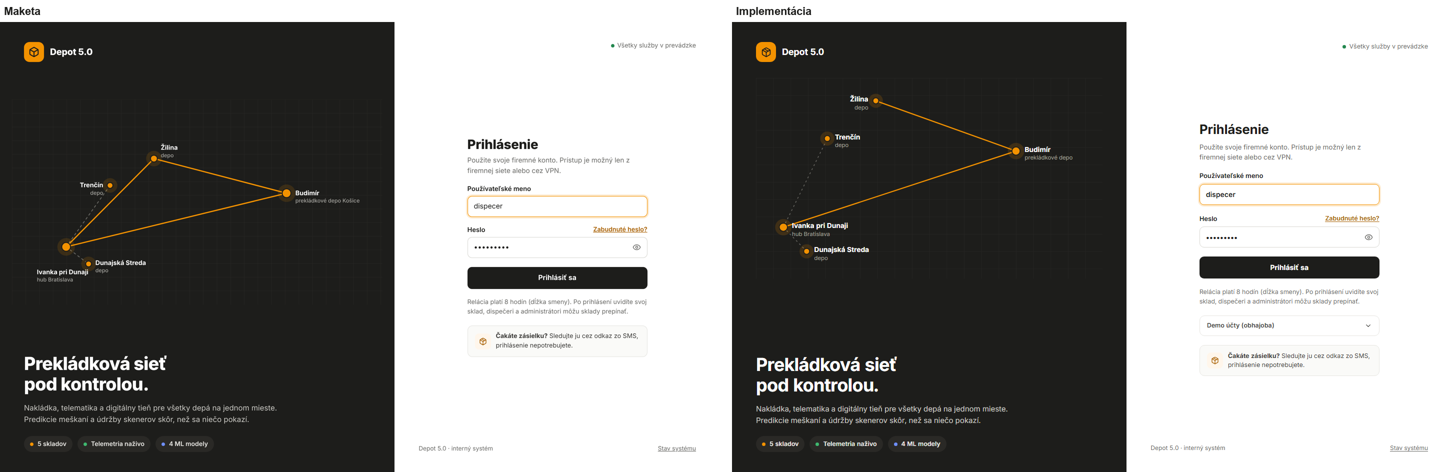
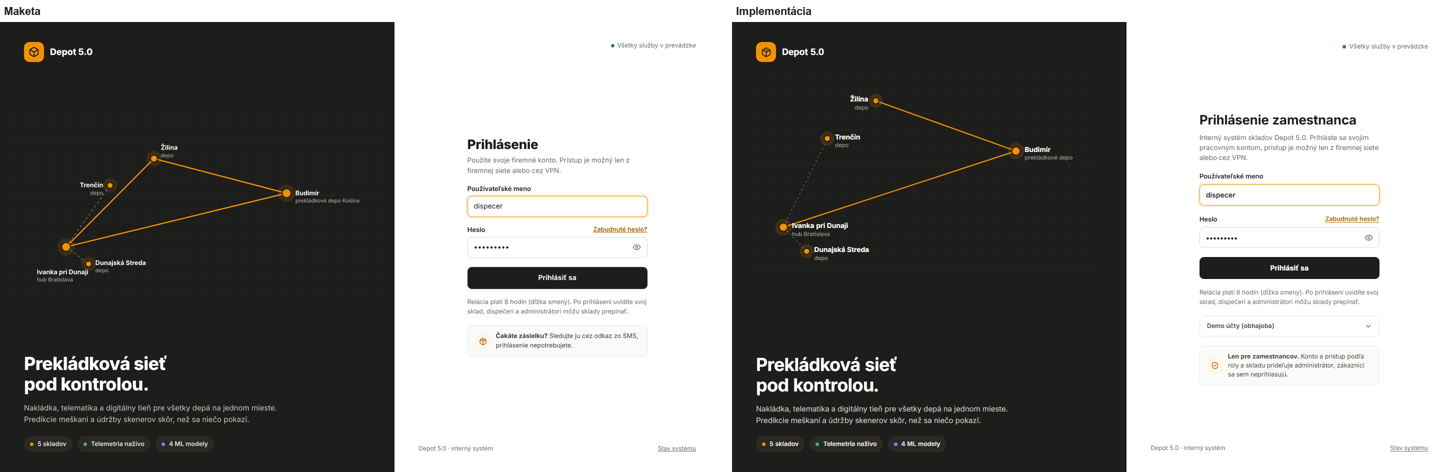
feat: phase 7d - UI/UX v2 finished: review fixes, proposal metric, platform, employees-only login
- telematics: tickets carry the user's depot, sorting line routes check role and depot (403 for another depot), unread scanner passes are not sent to the app, unread counted per parcel, tunnel misses go to decoding after 2 rounds, lines retried after 5 s, queue warning
- app: ws-ticket with the depot claim
- frontend: platform below the belt tops with a bridge belt and a ramp, yellow dock edge, login says employees only (no customer box)
- tools: fps ROOF=1 (60 fps with the roof open)
- docs: ADR-071 access and metric, faza-7d-ui-v2 explainer, AI-pouzitie 7d, README, screenshots, lessons

diff --git a/frontend/src/shadow/Line.tsx b/frontend/src/shadow/Line.tsx
@@ -7,10 +7,16 @@ import type { LineEdge, LineGraph, LineNode } from "./layout";
 import { box, disposeTree, mat } from "./parts";
 import { simNow } from "./simTime";
 
-/** heights (m): hall floor, top of a belt, the raised platform of the night trucks */
+/**
+ * heights (m): hall floor, top of a belt, the platform of the night trucks (below the belt tops,
+ * so the exit belts to the linehaul doors stay visible on it) and the belts from the platform,
+ * which run as a bridge over the exit belts
+ */
 const FLOOR = 0.36;
 const TOP = 1.2;
-const RAISE = 1.2;
+const PLATFORM = 0.55;
+const BRIDGE = 0.85;
+const DECK = 0.45;
 const LIMIT = 300;
 const WIDTH: Record<LineEdge["kind"], number> = { belt: 1.2, loop: 1.5, feed: 0.9, telescopic: 0.9, chute: 1.0, manual: 0 };
 
@@ -18,14 +24,36 @@ const C = {
   belt: 0x4f4f4c,
   beltTop: 0x8a8a86,
   chute: 0xbdbab3,
-  platform: 0xd2d0c9,
+  platform: 0xbfbcb3,
+  edge: 0xeebd45,
   bridge: 0x2f2f2d,
   office: 0xf4f3ef,
   table: 0xe9e2d4,
 } as const;
 
 function yOf(e: LineEdge): number {
-  return e.raised ? TOP + RAISE : TOP;
+  return e.raised ? TOP + BRIDGE : TOP;
+}
+
+/** Nodes where a bridge belt ends: a floor belt leaving one starts with a ramp down. */
+function bridgeEnds(g: LineGraph): Set<string> {
+  const raised = g.edges.filter((e) => e.raised && e.kind !== "chute");
+  return new Set(raised.flatMap((e) => [e.from, e.to]));
+}
+
+/** Height of a parcel / belt top on segment `k` of an edge at fraction `u` (ramps from a bridge). */
+function topAt(e: LineEdge, k: number, u: number, ends: Set<string>): number {
+  if (!e.raised && k === 1 && ends.has(e.from)) return TOP + BRIDGE * (1 - u);
+  return yOf(e);
+}
+
+/** A sloped segment from (x1, y1, z1) to (x2, y2, z2) (top surface), `h` thick. */
+function ramp(x1: number, z1: number, y1: number, x2: number, z2: number, y2: number, w: number, h: number, m: THREE.Material): THREE.Mesh {
+  const run = Math.hypot(x2 - x1, z2 - z1);
+  const s = box(Math.hypot(run, y2 - y1) + w * 0.5, h, w, m, (x1 + x2) / 2, (y1 + y2) / 2 - h / 2, (z1 + z2) / 2);
+  // Euler XYZ: the tilt (z) is applied before the turn (y)
+  s.rotation.set(0, -Math.atan2(z2 - z1, x2 - x1), Math.atan2(y2 - y1, run));
+  return s;
 }
 
 /** Direction of the line at a node: the first segment of the belt leaving it (or arriving). */
@@ -53,7 +81,14 @@ function lineModel(g: LineGraph, brand: THREE.Color): THREE.Group {
   const brandMat = mat(brand);
   for (const z of g.zones) {
     const [x0, y0, x1, y1] = z.rect;
-    if (z.kind === "platform") out.add(box(x1 - x0, RAISE, y1 - y0, mat(C.platform), (x0 + x1) / 2, FLOOR + RAISE / 2, (y0 + y1) / 2));
+    if (z.kind === "platform") {
+      out.add(box(x1 - x0, PLATFORM, y1 - y0, mat(C.platform), (x0 + x1) / 2, FLOOR + PLATFORM / 2, (y0 + y1) / 2));
+      // yellow safety edge round the platform (dock edge marking)
+      const e = mat(C.edge);
+      const yT = FLOOR + PLATFORM + 0.01;
+      out.add(box(x1 - x0, 0.03, 0.25, e, (x0 + x1) / 2, yT, y0 + 0.12), box(x1 - x0, 0.03, 0.25, e, (x0 + x1) / 2, yT, y1 - 0.12));
+      out.add(box(0.25, 0.03, y1 - y0, e, x0 + 0.12, yT, (y0 + y1) / 2), box(0.25, 0.03, y1 - y0, e, x1 - 0.12, yT, (y0 + y1) / 2));
+    }
     if (z.kind === "manual") {
       const m = box(x1 - x0, 0.04, y1 - y0, mat(brand, { transparent: true, opacity: 0.12 }), (x0 + x1) / 2, FLOOR + 0.03, (y0 + y1) / 2);
       m.castShadow = false;
@@ -65,10 +100,16 @@ function lineModel(g: LineGraph, brand: THREE.Color): THREE.Group {
       out.add(box(x1 - x0 + 0.2, 0.25, y1 - y0 + 0.2, brandMat, (x0 + x1) / 2, FLOOR + 3.1, (y0 + y1) / 2));
     }
   }
+  const ends = bridgeEnds(g);
+  const legs = mat(C.bridge);
   for (const e of g.edges) {
     if (e.kind === "manual") continue;
     const y = yOf(e);
     const w = WIDTH[e.kind];
+    if (e.raised && e.kind !== "chute") {
+      // a bridge: a deck on legs, the exit belts pass under it
+      for (const [px, pz] of e.points) out.add(box(0.22, y - DECK - FLOOR, 0.22, legs, px, FLOOR + (y - DECK - FLOOR) / 2, pz));
+    }
     for (let i = 1; i < e.points.length; i++) {
       const [x1, z1] = e.points[i - 1] as [number, number];
       const [x2, z2] = e.points[i] as [number, number];
@@ -77,8 +118,13 @@ function lineModel(g: LineGraph, brand: THREE.Color): THREE.Group {
         out.add(segment(x1, z1, x2, z2, w, 0.12, i === e.points.length - 1 ? FLOOR + 0.6 : TOP - 0.1, chute));
         continue;
       }
-      const body = segment(x1, z1, x2, z2, w, y - FLOOR - 0.3, y - 0.1, belt);
-      out.add(body);
+      if (!e.raised && i === 1 && ends.has(e.from)) {
+        // down from the bridge to the floor belts
+        out.add(ramp(x1, z1, TOP + BRIDGE - 0.1, x2, z2, TOP - 0.1, w, DECK, belt));
+        out.add(ramp(x1, z1, TOP + BRIDGE, x2, z2, TOP, w * 0.8, 0.08, top));
+        continue;
+      }
+      out.add(segment(x1, z1, x2, z2, w, e.raised ? DECK : y - FLOOR - 0.3, y - 0.1, belt));
       out.add(segment(x1, z1, x2, z2, w * 0.8, 0.08, y, top));
     }
   }
@@ -143,7 +189,7 @@ export function LineRoute({ graph, nodes }: { graph: LineGraph; nodes: string[] 
       seen.add(key);
       const e = graph.edges.find((x) => x.from === nodes[i - 1] && x.to === nodes[i]);
       if (!e) continue;
-      const y = e.kind === "manual" ? FLOOR + 0.06 : e.kind === "chute" ? TOP : yOf(e) + 0.06;
+      const y = e.kind === "manual" ? FLOOR + 0.06 : e.kind === "chute" ? TOP : e.raised ? yOf(e) + 0.06 : TOP + 0.06;
       for (let k = 1; k < e.points.length; k++) {
         const [x1, z1] = e.points[k - 1] as [number, number];
         const [x2, z2] = e.points[k] as [number, number];
@@ -223,6 +269,7 @@ const FOUND = new THREE.Color("#2f5be9");
 export function LineParcels({ graph, view, found }: { graph: LineGraph; view: LineView | undefined; found: string | null }) {
   const mesh = useRef<THREE.InstancedMesh>(null);
   const scratch = useRef(new THREE.Object3D());
+  const ends = useMemo(() => bridgeEnds(graph), [graph]);
   const tracks = useMemo<Track[]>(() => {
     const edges = new Map(graph.edges.map((e) => [`${e.from}>${e.to}`, e]));
     return (view?.parcels ?? []).slice(0, LIMIT).map((p) => {
@@ -280,7 +327,7 @@ export function LineParcels({ graph, view, found }: { graph: LineGraph; view: Li
           const u = Math.min(1, Math.max(0, (d - a) / seg));
           const [x0, z0] = e.points[k - 1] as [number, number];
           const [x1, z1] = e.points[k] as [number, number];
-          const y = e.kind === "manual" ? FLOOR + 0.9 : e.kind === "chute" ? TOP - f * (TOP - FLOOR - 0.8) : yOf(e);
+          const y = e.kind === "manual" ? FLOOR + 0.9 : e.kind === "chute" ? TOP - f * (TOP - FLOOR - 0.8) : topAt(e, k, u, ends);
           dummy.position.set(x0 + (x1 - x0) * u, y + 0.25, z0 + (z1 - z0) * u);
           dummy.rotation.y = -Math.atan2(z1 - z0, x1 - x0);
           dummy.scale.setScalar(t.found ? 1.6 : 1);

diff --git a/frontend/src/pages/LoginPage.tsx b/frontend/src/pages/LoginPage.tsx
@@ -1,4 +1,4 @@
-import { ChevronDown, Eye, EyeOff, Package } from "lucide-react";
+import { ChevronDown, Eye, EyeOff, ShieldCheck } from "lucide-react";
 import { useRef, useState, type FormEvent } from "react";
 import { Navigate, useLocation, useNavigate } from "react-router";
 import { useLogin, useMe } from "../api/auth";
@@ -143,8 +143,10 @@ export function LoginPage() {
         <div className="flex flex-1 items-center justify-center py-8">
           <form onSubmit={onSubmit} noValidate className="flex w-full max-w-[360px] flex-col gap-[18px]">
             <div>
-              <h2 className="text-[26px] font-extrabold tracking-[-0.01em]">Prihlásenie</h2>
-              <p className="text-ink-muted mt-1.5 text-[13.5px] leading-normal">Použite svoje firemné konto. Prístup je možný len z firemnej siete alebo cez VPN.</p>
+              <h2 className="text-[26px] font-extrabold tracking-[-0.01em]">Prihlásenie zamestnanca</h2>
+              <p className="text-ink-muted mt-1.5 text-[13.5px] leading-normal">
+                Interný systém skladov Depot 5.0. Prihláste sa svojím pracovným kontom, prístup je možný len z firemnej siete alebo cez VPN.
+              </p>
             </div>
             <label className="flex flex-col gap-1.5 text-[13px] font-semibold">
               Používateľské meno
@@ -225,10 +227,10 @@ export function LoginPage() {
             )}
             <div className="border-line bg-subtle flex items-center gap-2.5 rounded-[10px] border px-3.5 py-3">
               <span className="bg-brand-50 text-brand-700 grid h-8 w-8 shrink-0 place-items-center rounded-lg">
-                <Package size={16} aria-hidden="true" />
+                <ShieldCheck size={16} aria-hidden="true" />
               </span>
               <span className="text-ink-soft text-[12.5px] leading-[1.45]">
-                <b>Čakáte zásielku?</b> Sledujte ju cez odkaz zo SMS, prihlásenie nepotrebujete.
+                <b>Len pre zamestnancov.</b> Konto a prístup podľa roly a skladu prideľuje administrátor, zákazníci sa sem neprihlasujú.
               </span>
             </div>
           </form>

diff --git a/telematics/tests/line-api.test.ts b/telematics/tests/line-api.test.ts
@@ -98,6 +98,20 @@ describe("sorting line API and passages (ADR-071)", () => {
     await http.close();
   });
 
+  it("only dispatchers, admins and the security of the depot see its line (ADR-068)", async () => {
+    const as = async (role: string, depot?: string | null) => ({ authorization: `Bearer ${await ticket(role, { depot })}` });
+    const get = async (headers: Record<string, string>, url = "/line/BUD") => (await http.inject({ method: "GET", url, headers })).statusCode;
+    expect(await get(await as("security", "ZIL"))).toBe(403);
+    expect(await get(await as("security", "ZIL"), "/line/BUD/parcels/DP1")).toBe(403);
+    expect(await get(await as("security", "BUD"))).toBe(200);
+    expect(await get(await as("courier", "BUD"))).toBe(403);
+    expect(await get(await as("operator", "BUD"))).toBe(403);
+    // a ticket of a depot-bound role without the claim sees no depot
+    expect(await get(await as("security"))).toBe(403);
+    expect(await get(await as("dispatcher", null))).toBe(200);
+    expect(await get(await as("admin", null), "/line/BUD?variant=proposal")).toBe(200);
+  });
+
   it("needs a ticket and knows only depots with a line", async () => {
     expect((await http.inject({ method: "GET", url: "/line/BUD" })).statusCode).toBe(401);
     expect((await http.inject({ method: "GET", url: "/line/ZIL", headers: await bearer() })).statusCode).toBe(404);
@@ -161,7 +175,7 @@ describe("sorting line API and passages (ADR-071)", () => {
     const late = await makeEngine((a) => (a.failLines = 1));
     await late.runUntil(zonedToUtc(DAY, "19:00"));
     expect(late.app.checkpoints).toEqual([]);
-    late.advanceReal(31_000);
+    late.advanceReal(6000);
     await late.runUntil(zonedToUtc(DAY, "20:00"));
     const fresh = env.app.checkpoints.map((c) => `${c.checkpoint}|${c.barcode}|${c.at}`).sort();
     expect(late.app.checkpoints.map((c) => `${c.checkpoint}|${c.barcode}|${c.at}`).sort()).toEqual(fresh);

diff --git a/telematics/src/simulator/line.ts b/telematics/src/simulator/line.ts
@@ -233,18 +233,16 @@ function walk(r: LineRouter, p: LineParcel, input: string, ctx: LineContext, var
     if (attempts[0]) {
       ids = join(toScanner, r.path(sc.id, target.id));
     } else if (r.reject) {
-      // proposal: another round, read again; still unread after the rounds -> decoding station
+      // proposal: the tunnel reads every side, so a label it misses is damaged or missing and
+      // another round does not help: two rounds (as designed), then the decoding station by hand.
+      // The draws for the rounds stay drawn above (fixed count per parcel, ADR-047).
       const rounds: (string[] | null)[] = [toScanner];
-      let ok = false;
-      for (let k = 1; k <= RECIRCULATIONS && !ok; k++) {
+      for (let k = 1; k <= RECIRCULATIONS; k++) {
         rounds.push(r.path(sc.id, sc.id, true));
-        ok = (reads[k] as number) < rate;
-        attempts.push(ok);
+        attempts.push(false);
       }
       const decode = r.graph.nodes.find((n) => n.kind === "decode");
-      ids = ok
-        ? join(...rounds, r.path(sc.id, target.id))
-        : join(...rounds, r.path(sc.id, r.reject.id), decode ? r.path(r.reject.id, decode.id) : null, decode ? r.path(decode.id, target.id) : null);
+      ids = join(...rounds, r.path(sc.id, r.reject.id), decode ? r.path(r.reject.id, decode.id) : null, decode ? r.path(decode.id, target.id) : null);
     } else {
       // current: no decision, the default exit (manual area) sorts it by hand
       const fb = r.fallback;
@@ -468,7 +466,7 @@ export function checkpointViews(graph: LineGraph, runs: readonly ParcelRun[], no
         perHour: hour.length,
         today: all.length,
         readRate: reads.length ? reads.filter((x) => x.read).length / reads.length : null,
-        unread: all.filter((x) => x.read === false).length,
+        unread: new Set(all.filter((x) => x.read === false).map((x) => x.barcode)).size,
         queue,
       };
     });

diff --git a/telematics/src/simulator/engine.ts b/telematics/src/simulator/engine.ts
@@ -1089,7 +1089,9 @@ export class Engine {
       }
       const runs = lineRuns(line, parcels, { seed: this.seedValue, day: plan.day, depot, lineRate });
       state.line.set(depot, runs);
-      for (const r of runs.current) for (const x of r.passages) if (x.forward) state.passages.push(x);
+      // a scanner that did not read the label cannot name the parcel: like the line scans, an
+      // unread pass makes no event in the app (review 7d)
+      for (const r of runs.current) for (const x of r.passages) if (x.forward && x.read !== false) state.passages.push(x);
     }
     state.passages.sort((a, b) => a.at - b.at || a.checkpoint.localeCompare(b.checkpoint) || a.barcode.localeCompare(b.barcode));
   }
@@ -1101,8 +1103,8 @@ export class Engine {
       this.lines = await this.deps.app.getLines();
       return true;
     } catch (err) {
-      this.linesRetryAt = this.realNow() + 30_000;
-      this.deps.log.warn({ err: String(err) }, "sorting lines not loaded, retry in 30 s");
+      this.linesRetryAt = this.realNow() + 5000;
+      this.deps.log.warn({ err: String(err) }, "sorting lines not loaded, retry in 5 s");
       return false;
     }
   }
@@ -1120,7 +1122,10 @@ export class Engine {
 
   private forwardPassages(list: readonly Passage[]): void {
     for (const x of list) this.checkpointQueue.push({ checkpoint: x.checkpoint, barcode: x.barcode, at: iso(x.at) });
-    if (this.checkpointQueue.length > MAX_SCAN_QUEUE) this.checkpointQueue = this.checkpointQueue.slice(-MAX_SCAN_QUEUE);
+    if (this.checkpointQueue.length > MAX_SCAN_QUEUE) {
+      this.deps.log.warn({ dropped: this.checkpointQueue.length - MAX_SCAN_QUEUE }, "checkpoint queue full, dropping oldest");
+      this.checkpointQueue = this.checkpointQueue.slice(-MAX_SCAN_QUEUE);
+    }
   }
 
   private async flushCheckpoints(): Promise<void> {

diff --git a/telematics/src/api/guards.ts b/telematics/src/api/guards.ts
@@ -20,6 +20,31 @@ function hasServiceToken(req: FastifyRequest, token: string): boolean {
   return typeof header === "string" && sameSecret(header, token);
 }
 
+/**
+ * Role and depot: data of one depot (sorting line, ADR-071) only for the given roles and, for a
+ * user bound to a depot, only that depot (ADR-068). The depot comes from the route.
+ */
+export function depotGuard(verifier: TicketVerifier, serviceToken: string, roles: Role[], depotOf: (req: FastifyRequest) => string): preHandlerAsyncHookHandler {
+  return async (req: FastifyRequest, reply: FastifyReply) => {
+    if (hasServiceToken(req, serviceToken)) return;
+    const auth = req.headers.authorization;
+    if (!auth?.startsWith("Bearer ")) {
+      await reply.code(401).send({ error: "missing ticket" });
+      return;
+    }
+    try {
+      const claims = await verifier.verify(auth.slice("Bearer ".length), { consume: false });
+      if (claims.role !== "admin" && !roles.includes(claims.role)) {
+        await reply.code(403).send({ error: "insufficient role" });
+      } else if (claims.depot !== null && claims.depot !== depotOf(req)) {
+        await reply.code(403).send({ error: "not your depot" });
+      }
+    } catch (err) {
+      await reply.code(401).send({ error: err instanceof TicketError ? err.message : "invalid ticket" });
+    }
+  };
+}
+
 export function serviceTokenGuard(token: string): preHandlerAsyncHookHandler {
   return async (req: FastifyRequest, reply: FastifyReply) => {
     if (!hasServiceToken(req, token)) {

diff --git a/telematics/tests/ws.test.ts b/telematics/tests/ws.test.ts
@@ -12,12 +12,16 @@ import { SECRET, silentLog, ticket } from "./fixtures.js";
 describe("ticket verification", () => {
   const verifier = new TicketVerifier(SECRET);
 
-  it("accepts a valid ticket and returns the role", async () => {
-    expect(await verifier.verify(await ticket("operator"), { consume: false })).toEqual({
+  it("accepts a valid ticket and returns the role and the depot", async () => {
+    expect(await verifier.verify(await ticket("operator", { depot: "ZIL" }), { consume: false })).toEqual({
       userId: "7",
       name: "tester",
       role: "operator",
+      depot: "ZIL",
     });
+    // dispatchers switch depots (null); a bound role without the claim gets no depot
+    expect((await verifier.verify(await ticket("dispatcher"), { consume: false })).depot).toBeNull();
+    expect((await verifier.verify(await ticket("security"), { consume: false })).depot).toBe("");
   });
 
   it("rejects expired, foreign-signed, wrong-audience and unknown-role tickets", async () => {

diff --git a/telematics/src/api/line.ts b/telematics/src/api/line.ts
@@ -8,7 +8,7 @@ import type { FastifyPluginAsync } from "fastify";
 import type { Engine } from "../simulator/engine.js";
 import type { Variant } from "../simulator/line.js";
 import type { TicketVerifier } from "../ws/ticket.js";
-import { roleGuard } from "./guards.js";
+import { depotGuard } from "./guards.js";
 
 export interface LineRoutesDeps {
   engine: Engine;
@@ -28,7 +28,9 @@ const query = {
 } as const;
 
 export const lineRoutes: FastifyPluginAsync<LineRoutesDeps> = async (app, { engine, verifier, serviceToken }) => {
-  const anyRole = roleGuard(verifier, serviceToken, "any");
+  // like the digital shadow in the app (Viewer): dispatchers and security, security only for
+  // its own depot; admin always (ADR-068, ADR-071)
+  const anyRole = depotGuard(verifier, serviceToken, ["dispatcher", "security"], (req) => (req.params as { depot: string }).depot);
 
   app.get<{ Params: { depot: string }; Querystring: { variant?: Variant } }>(
     "/line/:depot",

diff --git a/telematics/src/ws/ticket.ts b/telematics/src/ws/ticket.ts
@@ -14,6 +14,8 @@ export interface TicketClaims {
   userId: string;
   name: string;
   role: Role;
+  /** the only depot the user may see (ADR-068); null = may switch (dispatcher, admin) */
+  depot: string | null;
 }
 
 export class TicketError extends Error {}
@@ -53,7 +55,10 @@ export class TicketVerifier {
       this.usedJti.set(jti, (payload.exp ?? 0) * 1000 + 5000);
     }
     const name = typeof payload.name === "string" ? payload.name : "";
-    return { userId: String(payload.sub), name, role: role as Role };
+    // a ticket without the claim binds a user who may not switch to no depot at all
+    const switcher = role === "admin" || role === "dispatcher";
+    const depot = typeof payload.depot === "string" ? payload.depot : switcher ? null : "";
+    return { userId: String(payload.sub), name, role: role as Role, depot };
   }
 
   private forgetExpired(): void {

diff --git a/telematics/tests/line.test.ts b/telematics/tests/line.test.ts
@@ -105,6 +105,14 @@ describe("lineRuns", () => {
     const decoded = p.filter((r) => r.hops.some((h) => h.node === "DK"));
     expect(p.some((r) => r.rounds > 0)).toBe(true);
     expect(decoded.length).toBeGreaterThan(0);
+    // a label the tunnel misses stays unread: two rounds, then decoding by hand (counted as manual)
+    for (const r of p.filter((x) => x.unread)) {
+      expect(r.rounds).toBe(2);
+      expect(r.manual).toBe(true);
+      expect(r.hops.some((h) => h.node === "DK")).toBe(true);
+    }
+    expect(variantKpis(p).manual).toBe(variantKpis(p).unread);
+    expect(variantKpis(p).manual).toBeGreaterThan(0);
     // up to two extra rounds: three readings at most at the tunnel
     for (const r of p) expect(r.passages.filter((x) => x.checkpoint === "CP-BUD-TUN").length).toBeLessThanOrEqual(3);
     // one worker: decoding never overlaps

diff --git a/telematics/tests/fixtures.ts b/telematics/tests/fixtures.ts
@@ -314,10 +314,10 @@ const key = new TextEncoder().encode(SECRET);
 
 export async function ticket(
   role = "dispatcher",
-  opts: { secret?: Uint8Array; audience?: string; expSeconds?: number; jti?: string } = {},
+  opts: { secret?: Uint8Array; audience?: string; expSeconds?: number; jti?: string; depot?: string | null | undefined } = {},
 ): Promise<string> {
   const now = Math.floor(Date.now() / 1000);
-  return new SignJWT({ role, name: "tester" })
+  return new SignJWT({ role, name: "tester", ...(opts.depot !== undefined ? { depot: opts.depot } : {}) })
     .setProtectedHeader({ alg: "HS256" })
     .setIssuer("depotrack-app")
     .setAudience(opts.audience ?? "telematics")

diff --git a/frontend/src/shadow/hud/LinePanel.tsx b/frontend/src/shadow/hud/LinePanel.tsx
@@ -83,7 +83,7 @@ export function LinePanel({ view, variant, onVariant, hasProposal }: { view: Lin
       )}
       <p className="text-ink-muted mt-2 text-[11.5px] leading-snug">
         {cur ? `${num(cur.parcels)} balíkov celého prevádzkového dňa` : ""}
-        {pro ? " · návrh počíta s tými istými balíkmi (simulácia, dáta skladu nemení)" : ""}
+        {pro ? " · návrh počíta s tými istými balíkmi (simulácia, dáta skladu nemení), ručne len štítky, ktoré tunel neprečíta" : ""}
       </p>
     </div>
   );
